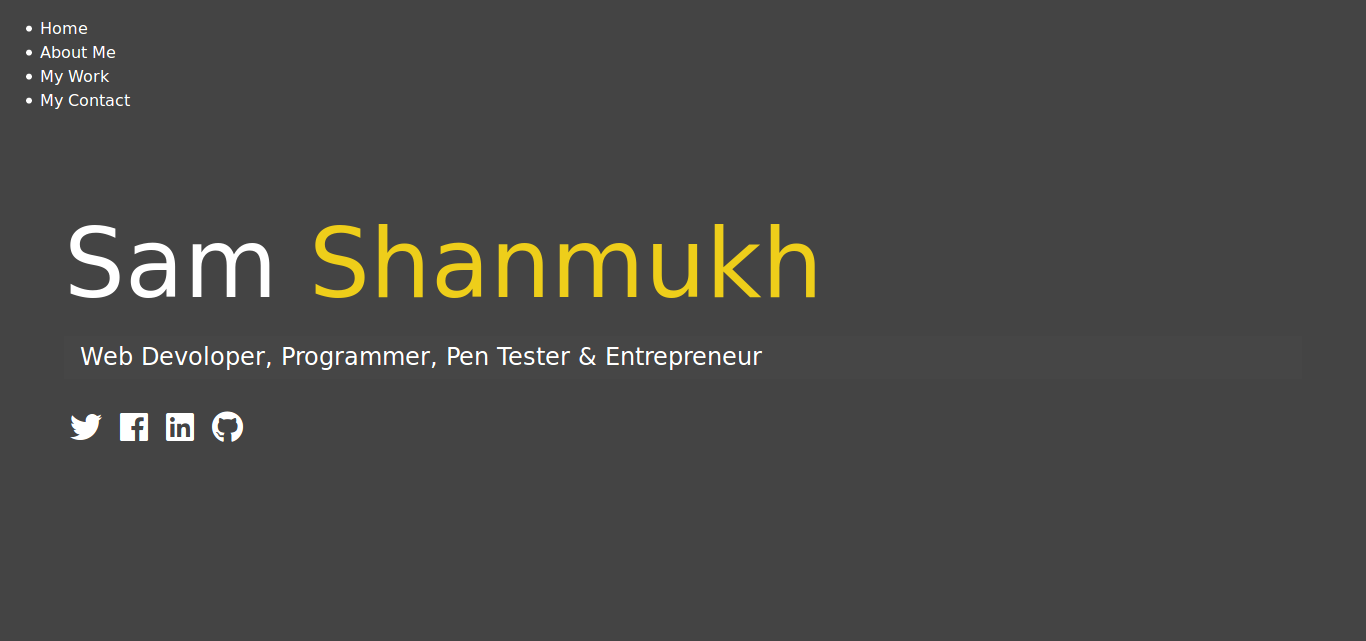
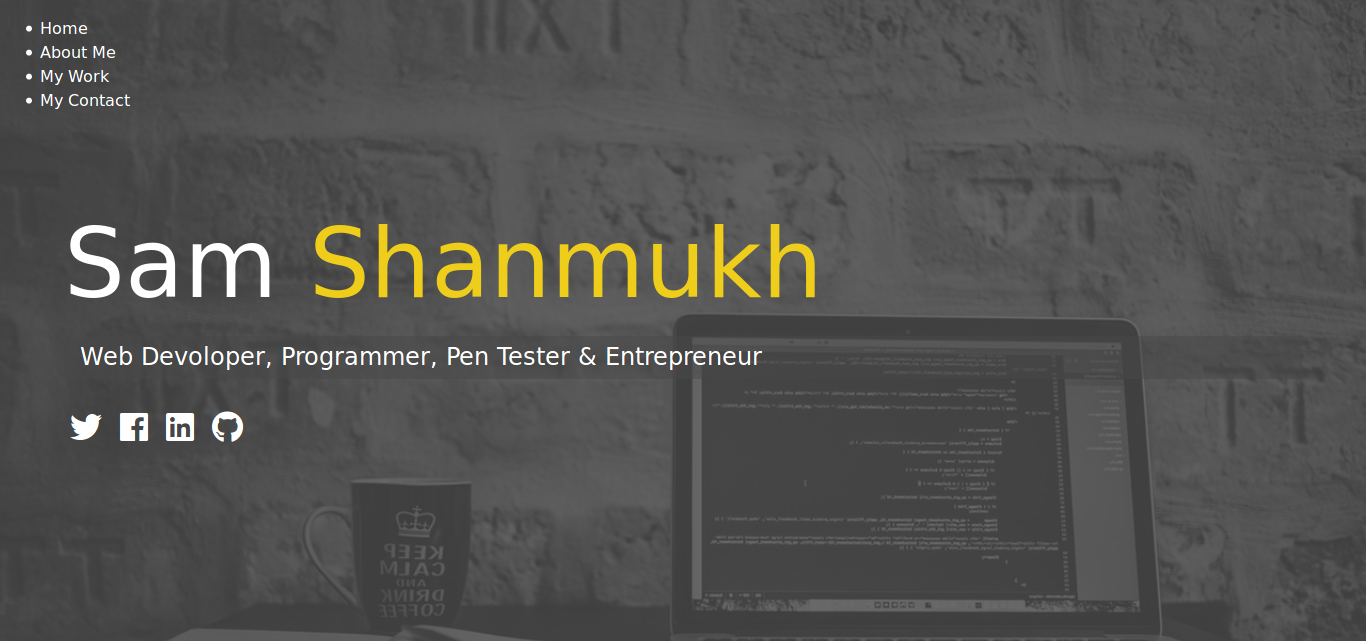
main header setup & backgroung style added

diff --git a/scss/_config.scss b/scss/_config.scss
@@ -1,0 +1,30 @@
+$primary-color: #444;
+$secondary-color: #eece1a;
+$show-home-image: true;
+$home-image: url(../img/background.jpg);
+$background-opacity: 0.8;
+
+@mixin easeOut {
+	transition: all 0.5s ease-out;
+}
+
+@mixin background {
+	@if $show-home-image {
+		&#bg-img {
+			background: $home-image;
+			background-attachment: fixed;
+			background-size: cover;
+
+			&:after {
+				content: '';
+				position: absolute;
+				top: 0;
+				right: 0;
+				width: 100%;
+				height: 100%;
+				z-index: -1;
+				background: rgba($primary-color, $background-opacity);
+			}
+		}
+	}
+}

diff --git a/main/css/style.css b/main/css/style.css
@@ -8,6 +8,19 @@ body {
   margin: 0;
   font-family: 'Segoe UI', Tahoma, Geneva, Verdana, sans-serif;
   line-height: 1.5; }
+  body#bg-img {
+    background: url(../img/background.jpg);
+    background-attachment: fixed;
+    background-size: cover; }
+    body#bg-img:after {
+      content: '';
+      position: absolute;
+      top: 0;
+      right: 0;
+      width: 100%;
+      height: 100%;
+      z-index: -1;
+      background: rgba(68, 68, 68, 0.8); }
 
 h1, h2, h3 {
   margin: 0;

diff --git a/main/index.html b/main/index.html
@@ -21,7 +21,7 @@
     <!-- Custom Style -->
     <link rel="stylesheet" type="text/css" href="https://use.fontawesome.com/releases/v5.2.0/css/all.css">
   </head>
-  <body>
+  <body id="bg-img">
     <header>
         <div class="menu-btn">
             <div class="btn-line"></div>

diff --git a/scss/style.scss b/scss/style.scss
@@ -1,15 +1,11 @@
-$primary-color: #444;
-$secondary-color: #eece1a;
-
-@mixin easeOut {
-	transition: all 0.5s ease-out;
-}
+@import 'config.scss';
 
 * {
 	box-sizing: border-box;
 }
 
 body {
+	@include background;
 	background: $primary-color;
 	color: #fff;
 	height: 100%;
